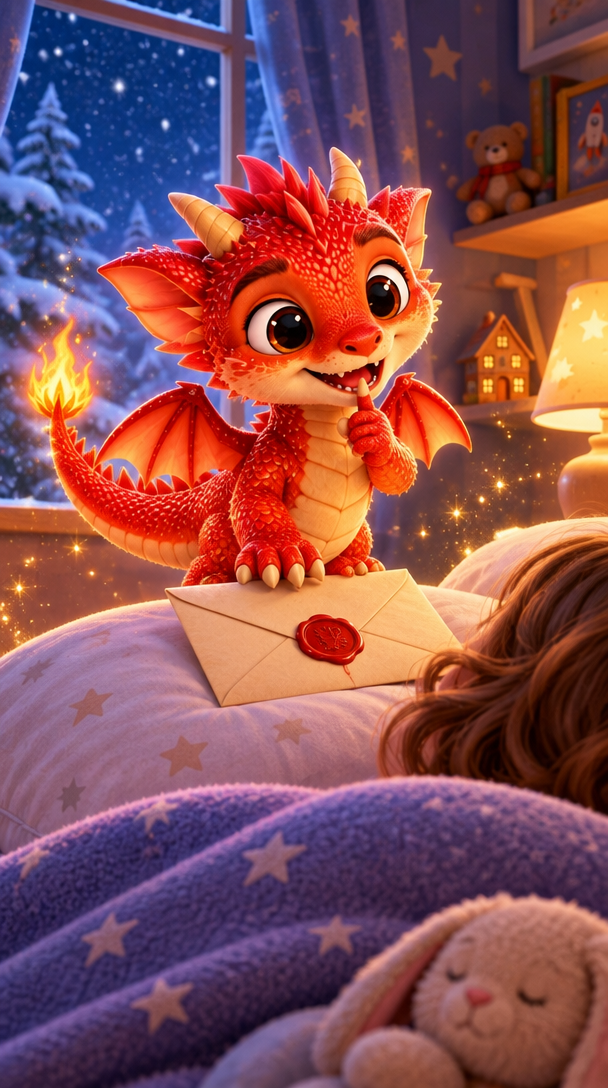
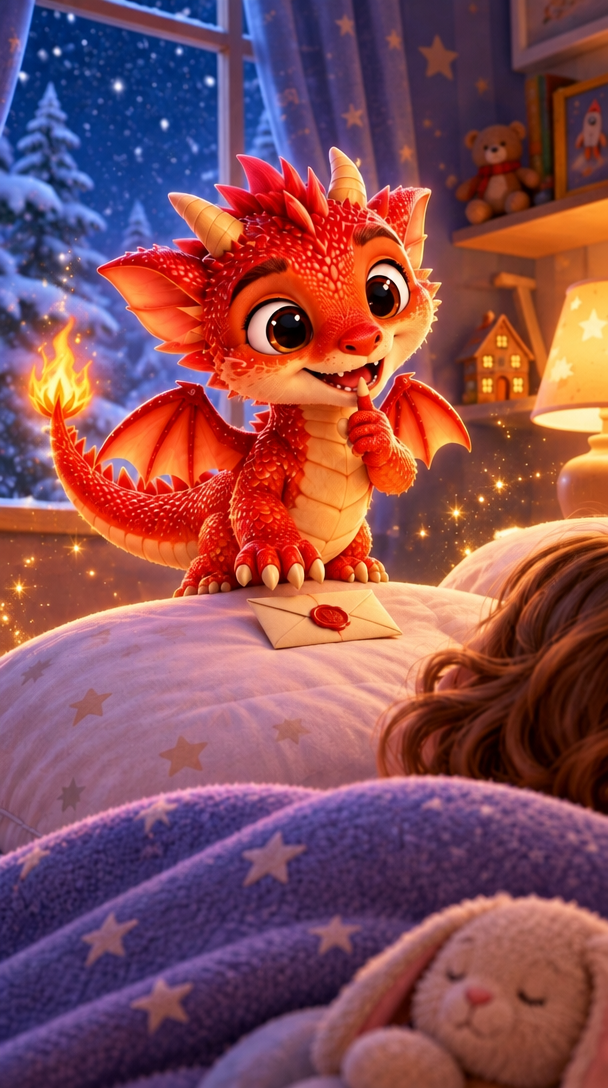
Полёт Огонька: конверт одного размера, финал с тсс и подмигиванием
Claude-Session: https://claude.ai/code/session_01TXwNN2je3RbbmpXYz6m2NX

diff --git a/polet/montazh.py b/polet/montazh.py
@@ -7,22 +7,23 @@ PlayResY: 1280
 [V4+ Styles]
 Format: Name, Fontname, Fontsize, PrimaryColour, SecondaryColour, OutlineColour, BackColour, Bold, Italic, Underline, StrikeOut, ScaleX, ScaleY, Spacing, Angle, BorderStyle, Outline, Shadow, Alignment, MarginL, MarginR, MarginV, Encoding
 Style: T,Inter ExtraBold,46,&H00FFFFFF,&H00FFFFFF,&H00202020,&H64000000,0,0,0,0,100,100,0,0,1,4,3,8,40,40,150,1
+Style: N,Inter ExtraBold,46,&H00FFFFFF,&H00FFFFFF,&H00202020,&H64000000,0,0,0,0,100,100,0,0,1,4,3,2,40,40,260,1
 
 [Events]
 Format: Layer, Start, End, Style, Name, MarginL, MarginR, MarginV, Effect, Text
 Dialogue: 0,0:00:00.10,0:00:09.60,T,,0,0,0,,{\\fad(200,250)}Куда летит Огонёк\\Nв новогоднюю ночь?
-Dialogue: 0,0:00:11.40,0:00:15.00,T,,0,0,0,,{\\fad(250,0)}Напиши имя ребёнка\\Nв комментариях,\\N{\\c&H0033D7FF&}и Огонёк прилетит к нему
+Dialogue: 0,0:00:14.60,0:00:19.70,N,,0,0,0,,{\\fad(250,0)}Напиши имя ребёнка\\Nв комментариях,\\N{\\c&H0033D7FF&}и Огонёк прилетит к нему
 """
 open("tekst.ass","w",encoding="utf-8").write(ass)
-K=["12","23","34","45"]
-SEG=[(0.0,4.62),(0.0,5.0),(0.0,5.0),(0.0,5.0)]
-SP=[1.5,1.5,1.5,1.0]
+K=["12","23","34","45","5w"]
+SEG=[(0.0,4.62),(0.0,5.0),(0.0,5.0),(0.0,5.0),(0.04,5.0)]
+SP=[1.5,1.5,1.5,1.0,1.0]
 f=[]; ins=[]; L=[]
 for i,k in enumerate(K):
     ins+=["-i",f"klipy/{k}.mp4"]
     a,b=SEG[i]; L.append((b-a)/SP[i])
     f.append(f"[{i}:v]trim={a}:{b},setpts=(PTS-STARTPTS)/{SP[i]},fps=30,scale=720:1280:force_original_aspect_ratio=increase,crop=720:1280,setsar=1,format=yuv420p[v{i}]")
 print("длина",round(sum(L),2),"финал с",round(sum(L[:3]),2))
-f.append("[v0][v1][v2][v3]concat=n=4:v=1:a=0,fade=t=in:st=0:d=0.2,ass=tekst.ass[v]")
+f.append("[v0][v1][v2][v3][v4]concat=n=5:v=1:a=0,fade=t=in:st=0:d=0.2,fade=t=out:st=19.2:d=0.5,ass=tekst.ass[v]")
 subprocess.run(["ffmpeg","-v","error","-y"]+ins+["-filter_complex",";".join(f),"-map","[v]","-c:v","libx264","-profile:v","high",
   "-pix_fmt","yuv420p","-crf","19","-movflags","+faststart","rils_polet_ogonka.mp4"],check=True)

diff --git a/polet/final.py b/polet/final.py
@@ -1,0 +1,20 @@
+import os, sys, urllib.request, fal_client, concurrent.futures as cf
+os.environ.setdefault("FAL_KEY","proxy-injected")
+ENV=(" The envelope is ALWAYS the same small closed cream envelope with a red wax seal, about as wide as the dragon's head: it NEVER opens, NEVER unfolds, "
+     "NEVER turns into a sheet of paper and NEVER changes size. The dragon looks exactly the same all the time. The child keeps sleeping, face hidden. "
+     "High-quality 3D animated film motion, smooth.")
+J={
+"45":("start","4.png","5.png","The dragon slows down and glides in through the open window into the cozy child's bedroom, the camera follows him inside, "
+      "he lands softly on the pillow next to the sleeping child, carefully places the small envelope on the pillow, then raises one claw to his lips: shh."),
+"5w":("start","5.png","5.png","The little dragon keeps the claw at his lips for a moment (shh), looks right into the camera, gives a big cute playful WINK with one eye, "
+      "smiles sweetly, the flame on his tail flickers, tiny golden sparkles float in the air. The camera is almost still, very slow push-in."),
+}
+def odin(k):
+    _,a,b,p=J[k]
+    r=fal_client.subscribe("kling/v4/image-to-video",arguments={"prompt":p+ENV,"start_image_url":fal_client.upload_file("kadry/"+a),
+        "end_image_url":fal_client.upload_file("kadry/"+b),"duration":5,"resolution":"720p"})
+    urllib.request.urlretrieve(r["video"]["url"],f"klipy/{k}.mp4"); return k+" ok"
+with cf.ThreadPoolExecutor(2) as ex:
+    for f in cf.as_completed([ex.submit(odin,k) for k in (sys.argv[1:] or J)]):
+        try: print(f.result(),flush=True)
+        except Exception as e: print("ОШИБКА",e,flush=True)
